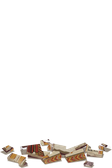
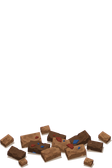
art: junior plaster spill
Claude-Session: https://claude.ai/code/session_01F6g2diRzQCzQwEf9zsEEGH

Changed region(s): [[0.0, 0.744, 1.0, 1.0]]

diff --git a/docs/instructions/repaint-queue.md b/docs/instructions/repaint-queue.md
@@ -483,7 +483,7 @@ Even lighting left to right, no hotspot, no vignette.
 
 ---
 
-## Nobleman — twenty-two
+## Nobleman — twenty-one
 
 The nobleman's existing props, repainted for the rank's new light orange floor. Each is its own thing
 first: cedar is cedar, linen is linen, pottery is pottery, painted in red ochre, Egyptian blue and leaf
@@ -506,36 +506,6 @@ The last nine are the house's own kinds, new with its activities ([themed-rooms.
 § Junior): each has a primitive of its own in `renderProp.py` and a guarded block in `art/rebuild.sh`. The
 banquet table and the bed are two cells across, so their frame is landscape three by two; the harp and the
 potted tree stand a cell taller, so theirs is portrait two by five.
-
-### `junior/rubbleSpill` — a fan of plaster grit and painted flakes
-
-**Re-roll:** the rank's palette moved (2026-11-03, `Topology/Palette moodboard`). Repainted against the new light orange floor, in its own material's colours; copper only as a trim.
-
-**Attach:**
-
-1. `~/tile-previews/rubbleSpill-junior.png` — the scaffold
-2. `~/tile-previews/junior-plain.png` — the material reference
-
-```
-A wall-less product shot of a single object, painted in flat matte gouache, no background, on pure magenta #FF00FF. Portrait, two units wide by three tall, exactly as the reference. Do not re-compose it into a square. Paint over the reference image itself.
-
-The object: a SPILL of grit and broken plaster fanned across the floor.
-
-Plaster crumbs #7e5a3a and mudbrick grit #5a3a24, a few flat flakes still painted red ochre #8a3a2a or
-Egyptian blue #2a5a9a, all clearly DARKER than the orange floor #e2a86f so the spill reads against it.
-
-Keep every edge, every proportion and every silhouette exactly as in the reference image — do not move, resize, straighten, add, remove or restyle any part of it, and do not change the angle it stands at. Paint only material and wear.
-
-No highlights, no gloss, no rim light, no ground plane, no reflections. Matte throughout, evenly lit, crisp and clean. Nobleman's house: orange sandstone, painted plaster, cedar, linen, reed and pottery, each in its OWN colours so it reads at a glance as what it is. Copper is an accent only — a rim, a band, a hasp, gone verdigris green at the edges — never a tint over the whole object.
-```
-
-Then, once the return is in `~/Downloads`:
-
-```sh
-scaffold rubblePile --contents=spill --colour=#7e5a3a --floor=#e2a86f
-yarn import-tile art/masters/props/junior/rubbleSpill.webp --tier=junior --name=rubbleSpill --slot=prop \
-  --filter=smooth --mask="$OBJ" --seat="$SHADOW"
-```
 
 ### `junior/statue` — the nobleman's ka-statue in dark wood, seated
 
